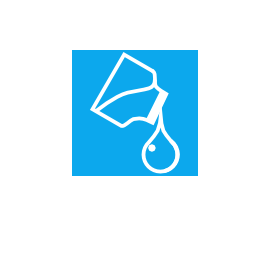
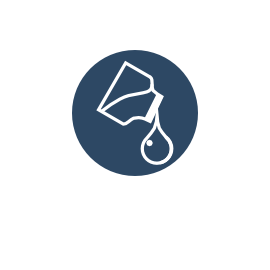
alt muligt

Changed region(s): [[0.2667, 0.1778, 0.7407, 0.6519]]

diff --git a/stylesheet.css b/stylesheet.css
@@ -4,9 +4,9 @@
 
 .wrapper {
     font-size: 1em;
-    max-width: 1400px;
+    max-width: 1100px;
     margin: 0 auto;
-    padding: 1.5vw;
+    background-color: #2d4864;
 }
 
 .img {
@@ -78,7 +78,7 @@ section#refill h1 {
     display: flex;
     flex-wrap: wrap;
     padding: 1vw;
-    background-color: lightblue;
+    background-color: #2d4864;
 }
 
 .banner a {
@@ -120,9 +120,10 @@ nav a {
 }
 
 nav a:hover {
-    color: #FF4049;
+    opacity: 0.3;
+    background-color: orange;
+    /*    border-color: aliceblue;*/
 }
-
 
 /* TOPMENU */
 
@@ -130,8 +131,9 @@ nav a:hover {
     display: flex;
     flex-wrap: wrap;
     width: 100%;
-    background-color: lightblue;
+    background-color: #426284;
     align-items: center;
+    /*    position: fixed;*/
 }
 
 .topmenu {
@@ -147,7 +149,7 @@ nav a:hover {
 .shoppingcart {
     flex-basis: 100px;
     flex-grow: 0.5;
-    padding: 1vw;
+    padding: 2vw;
     text-align: right;
 }
 
@@ -155,6 +157,11 @@ nav a:hover {
     width: 6vw;
     min-width: 50px;
     padding: 0.7vw;
+}
+
+.shoppingcart a:hover {
+    opacity: 1;
+    background-color: #426284;
 }
 
 /* HOVEDMENU */
@@ -184,6 +191,12 @@ nav a:hover {
     width: 20vw;
     height: 20vw;
     margin: 5vw;
+}
+
+#hovedmenu .hovedmenubillede a:hover {}
+
+#hovedmenu .hovedmenubillede:hover {
+    opacity: 0.8;
 }
 
 
@@ -230,9 +243,15 @@ nav a:hover {
 #refill .refillbillede,
 #printervalg .printervalgbillede {
     border-radius: 150%;
-    background-color: lightblue;
+    background-color: #ff934f;
     width: 30vw;
     height: 30vw;
+}
+
+#kompatibel .kompatibelbillede:hover,
+#refill .refillbillede:hover,
+#printervalg .printervalgbillede:hover {
+    opacity: 0.8;
 }
 
 #printervalg .printervalgtekst {}
@@ -261,6 +280,10 @@ nav a:hover {
     background-color: lightblue;
     width: 30vw;
     height: 30vw;
+}
+
+#blaek .blaekbillede:hover {
+    opacity: 0.8;
 }
 
 #blaek .blaektekst {}

diff --git a/om.html b/om.html
@@ -11,13 +11,16 @@
     <!-- EKSEMPEL PÅ GOOGLE FONT -->
     <link href="https://fonts.googleapis.com/css?family=Merriweather+Sans:400,700,800" rel="stylesheet">
     <link href="https://fonts.googleapis.com/css?family=Roboto|Roboto+Condensed" rel="stylesheet">
+
     <link rel="apple-touch-icon" sizes="180x180" href="/images/ikoner/apple-touch-icon.png">
     <link rel="icon" type="image/png" sizes="32x32" href="/images/ikoner/favicon-32x32.png">
     <link rel="icon" type="image/png" sizes="16x16" href="/images/ikoner/favicon-16x16.png">
-    <link rel="manifest" href="/images/manifest.json">
+    <link rel="manifest" href="/images/ikoner/manifest.json">
+    <link rel="mask-icon" href="/images/ikoner/safari-pinned-tab.svg" color="#5bbad5">
     <link rel="shortcut icon" href="/images/ikoner/favicon.ico">
-    <meta name="msapplication-config" content="/images/browserconfig.xml">
-    <meta name="theme-color" content="#ffffff"> </head>
+    <meta name="msapplication-config" content="/images/ikoner/browserconfig.xml">
+    <meta name="theme-color" content="#ffffff">
+</head>
 
 <body>
     <div class="wrapper">

diff --git a/blaek.html b/blaek.html
@@ -15,9 +15,10 @@
     <link rel="apple-touch-icon" sizes="180x180" href="/images/ikoner/apple-touch-icon.png">
     <link rel="icon" type="image/png" sizes="32x32" href="/images/ikoner/favicon-32x32.png">
     <link rel="icon" type="image/png" sizes="16x16" href="/images/ikoner/favicon-16x16.png">
-    <link rel="manifest" href="/images/manifest.json">
+    <link rel="manifest" href="/images/ikoner/manifest.json">
+    <link rel="mask-icon" href="/images/ikoner/safari-pinned-tab.svg" color="#5bbad5">
     <link rel="shortcut icon" href="/images/ikoner/favicon.ico">
-    <meta name="msapplication-config" content="/images/browserconfig.xml">
+    <meta name="msapplication-config" content="/images/ikoner/browserconfig.xml">
     <meta name="theme-color" content="#ffffff">
 </head>
 
@@ -114,10 +115,11 @@
         </section>
 
 
+
+        <footer>
+            <p>© Gruppe 13 </p>
+        </footer>
     </div>
-    <footer>
-        <p>© Gruppe 13 </p>
-    </footer>
 </body>
 
 

diff --git a/index.html b/index.html
@@ -15,9 +15,10 @@
     <link rel="apple-touch-icon" sizes="180x180" href="/images/ikoner/apple-touch-icon.png">
     <link rel="icon" type="image/png" sizes="32x32" href="/images/ikoner/favicon-32x32.png">
     <link rel="icon" type="image/png" sizes="16x16" href="/images/ikoner/favicon-16x16.png">
-    <link rel="manifest" href="/images/manifest.json">
+    <link rel="manifest" href="/images/ikoner/manifest.json">
+    <link rel="mask-icon" href="/images/ikoner/safari-pinned-tab.svg" color="#5bbad5">
     <link rel="shortcut icon" href="/images/ikoner/favicon.ico">
-    <meta name="msapplication-config" content="/images/browserconfig.xml">
+    <meta name="msapplication-config" content="/images/ikoner/browserconfig.xml">
     <meta name="theme-color" content="#ffffff">
 </head>
 

diff --git a/kompatibel.html b/kompatibel.html
@@ -15,9 +15,10 @@
     <link rel="apple-touch-icon" sizes="180x180" href="/images/ikoner/apple-touch-icon.png">
     <link rel="icon" type="image/png" sizes="32x32" href="/images/ikoner/favicon-32x32.png">
     <link rel="icon" type="image/png" sizes="16x16" href="/images/ikoner/favicon-16x16.png">
-    <link rel="manifest" href="/images/manifest.json">
+    <link rel="manifest" href="/images/ikoner/manifest.json">
+    <link rel="mask-icon" href="/images/ikoner/safari-pinned-tab.svg" color="#5bbad5">
     <link rel="shortcut icon" href="/images/ikoner/favicon.ico">
-    <meta name="msapplication-config" content="/images/browserconfig.xml">
+    <meta name="msapplication-config" content="/images/ikoner/browserconfig.xml">
     <meta name="theme-color" content="#ffffff">
 </head>
 

diff --git a/printervalg.html b/printervalg.html
@@ -15,9 +15,10 @@
     <link rel="apple-touch-icon" sizes="180x180" href="/images/ikoner/apple-touch-icon.png">
     <link rel="icon" type="image/png" sizes="32x32" href="/images/ikoner/favicon-32x32.png">
     <link rel="icon" type="image/png" sizes="16x16" href="/images/ikoner/favicon-16x16.png">
-    <link rel="manifest" href="/images/manifest.json">
+    <link rel="manifest" href="/images/ikoner/manifest.json">
+    <link rel="mask-icon" href="/images/ikoner/safari-pinned-tab.svg" color="#5bbad5">
     <link rel="shortcut icon" href="/images/ikoner/favicon.ico">
-    <meta name="msapplication-config" content="/images/browserconfig.xml">
+    <meta name="msapplication-config" content="/images/ikoner/browserconfig.xml">
     <meta name="theme-color" content="#ffffff">
 </head>
 

diff --git a/refill.html b/refill.html
@@ -15,9 +15,10 @@
     <link rel="apple-touch-icon" sizes="180x180" href="/images/ikoner/apple-touch-icon.png">
     <link rel="icon" type="image/png" sizes="32x32" href="/images/ikoner/favicon-32x32.png">
     <link rel="icon" type="image/png" sizes="16x16" href="/images/ikoner/favicon-16x16.png">
-    <link rel="manifest" href="/images/manifest.json">
+    <link rel="manifest" href="/images/ikoner/manifest.json">
+    <link rel="mask-icon" href="/images/ikoner/safari-pinned-tab.svg" color="#5bbad5">
     <link rel="shortcut icon" href="/images/ikoner/favicon.ico">
-    <meta name="msapplication-config" content="/images/browserconfig.xml">
+    <meta name="msapplication-config" content="/images/ikoner/browserconfig.xml">
     <meta name="theme-color" content="#ffffff">
 </head>
 
